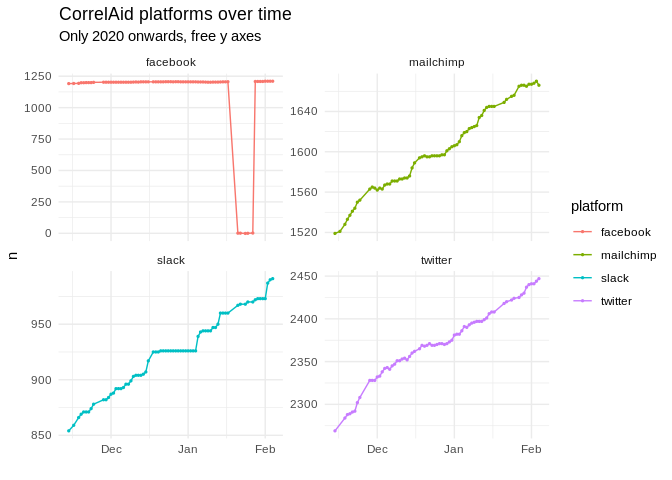
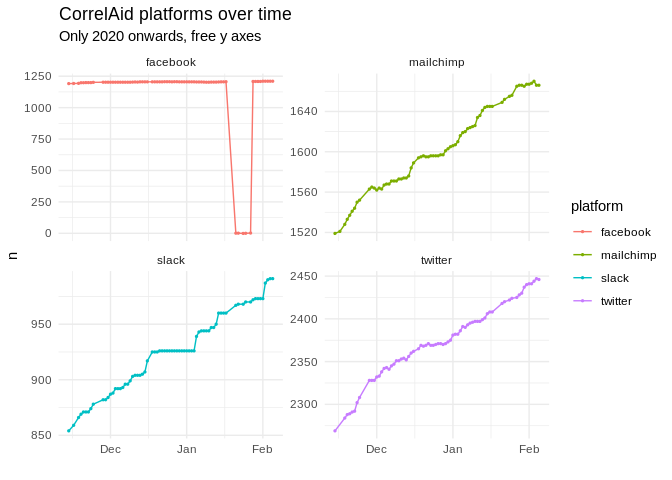
🤖 CRON - update daily data

diff --git a/README.md b/README.md
@@ -25,7 +25,7 @@ count and general network data on a daily basis using
 
 ### Plots
 
-*last updated*: 2021-02-04
+*last updated*: 2021-02-05
 23:50:13
 
 ![](README_files/figure-gfm/plot-alltime-1.png)<!-- -->
